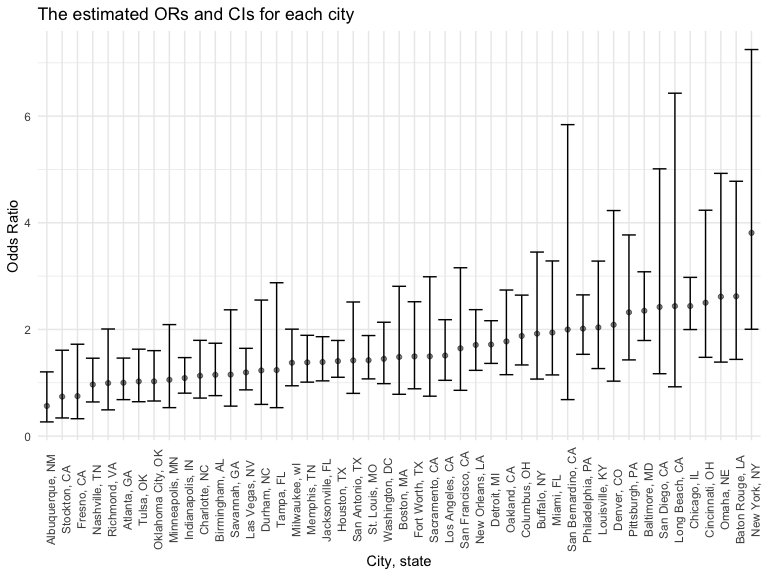
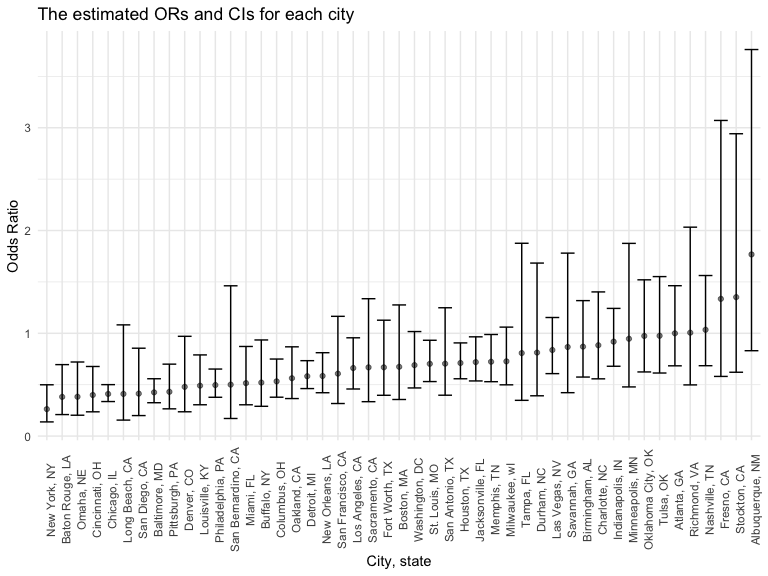
revised homicide_status variable

diff --git a/P8105_hw6_qx2222.md b/P8105_hw6_qx2222.md
@@ -121,13 +121,15 @@ homicide = read_csv("data/homicide-data.csv") #import 'homicide' data
 ``` r
 homicide = homicide %>%
   mutate(city_state = str_c(city, ", ", state)) %>%
-  mutate(homicide_status = if_else(disposition == "Closed without arrest", "unresolved",
-                                   if_else(disposition == "Open/No arrest", "unresolved",
-                                           if_else(disposition == "Closed by arrest", "resolved", NA_character_)))) %>%
+  mutate(homicide_status = case_when(
+         disposition == "Closed without arrest" ~ 0,
+         disposition == "Open/No arrest" ~ 0,
+         disposition == "Closed by arrest" ~ 1))%>%
   filter(!(city_state %in% c("Dallas, TX", "Phoenix, AZ", "Kansas City, MO", "Tulsa, AL"))) %>% #omit observations
   filter(victim_race %in% c("Black", "White")) %>% #limit your analysis those for whom victim_race is white or black
-  mutate(victim_age = as.numeric(victim_age)) %>% # Be sure that victim_age is numeric
-  drop_na(victim_age)
+  mutate(victim_age = as.numeric(victim_age)) %>%  # Be sure that victim_age is numeric
+  drop_na(victim_age, victim_sex,victim_race, homicide_status)
+
 
 
 homicide
@@ -147,7 +149,7 @@ homicide
     ##  9 Alb-…  2.01e7 BOYKIN  CEDRIC  Black        25 Male    Albu… NM     35.1 -107.
     ## 10 Alb-…  2.01e7 BARRAG… MIGUEL  White        20 Male    Albu… NM     35.1 -107.
     ## # … with 39,393 more rows, 3 more variables: disposition <chr>,
-    ## #   city_state <chr>, homicide_status <chr>, and abbreviated variable names
+    ## #   city_state <chr>, homicide_status <dbl>, and abbreviated variable names
     ## #   ¹reported_date, ²victim_last, ³victim_first, ⁴victim_race, ⁵victim_age,
     ## #   ⁶victim_sex
 
@@ -156,30 +158,29 @@ homicide
 ``` r
 fit_log_MD = homicide %>% #use the glm function to fit a logistic regression
   filter(city_state == "Baltimore, MD") %>%
-  mutate(homicide_status = fct_relevel(homicide_status, "resloved")) %>%
-  glm(homicide_status ~ victim_age + victim_sex + victim_race, data = ., family = binomial())%>%
+  glm(homicide_status ~ victim_age + victim_sex + victim_race, 
+      data = ., family = binomial())%>%
   broom::tidy() %>%
   mutate(OR = exp(estimate),
          CI_lower = exp(estimate - 1.96*std.error),
          CI_higher = exp(estimate + 1.96*std.error)) %>%
   select(term, estimate, OR, CI_lower, CI_higher) %>%
+  filter(term == "victim_sexMale") %>%
   knitr::kable(digits = 3, col.names = c("Term", "Estimate", "Odds ratio", "95CI_low","95CI_high"))
+
+
 
 fit_log_MD
 ```
 
-| Term             | Estimate | Odds ratio | 95CI_low | 95CI_high |
-|:-----------------|---------:|-----------:|---------:|----------:|
-| (Intercept)      |   -0.310 |      0.733 |    0.524 |     1.026 |
-| victim_age       |    0.007 |      1.007 |    1.000 |     1.013 |
-| victim_sexMale   |    0.854 |      2.350 |    1.793 |     3.081 |
-| victim_raceWhite |   -0.842 |      0.431 |    0.306 |     0.607 |
+| Term           | Estimate | Odds ratio | 95CI_low | 95CI_high |
+|:---------------|---------:|-----------:|---------:|----------:|
+| victim_sexMale |   -0.854 |      0.426 |    0.325 |     0.558 |
 
 ### Run glm for each of the cities
 
 ``` r
 homicide_cities = homicide %>% #use the glm function to fit a logistic regression
-  mutate(homicide_status = fct_relevel(homicide_status, "resloved")) %>%
   nest(data = -city_state) %>%
   mutate(
     models = map(.x = data, ~ glm(homicide_status ~ victim_age + victim_sex + victim_race, data = .x, family = binomial())),
@@ -198,53 +199,53 @@ homicide_cities %>%
 
 | City, state        | Term           | Estimate | Odds ratio | 95CI_low | 95CI_high |
 |:-------------------|:---------------|---------:|-----------:|---------:|----------:|
-| Albuquerque, NM    | victim_sexMale |   -0.570 |      0.566 |    0.266 |     1.204 |
-| Atlanta, GA        | victim_sexMale |    0.000 |      1.000 |    0.683 |     1.463 |
-| Baltimore, MD      | victim_sexMale |    0.854 |      2.350 |    1.793 |     3.081 |
-| Baton Rouge, LA    | victim_sexMale |    0.964 |      2.622 |    1.438 |     4.779 |
-| Birmingham, AL     | victim_sexMale |    0.139 |      1.149 |    0.759 |     1.741 |
-| Boston, MA         | victim_sexMale |    0.395 |      1.484 |    0.784 |     2.809 |
-| Buffalo, NY        | victim_sexMale |    0.653 |      1.921 |    1.069 |     3.451 |
-| Charlotte, NC      | victim_sexMale |    0.123 |      1.131 |    0.713 |     1.795 |
-| Chicago, IL        | victim_sexMale |    0.891 |      2.438 |    1.998 |     2.976 |
-| Cincinnati, OH     | victim_sexMale |    0.917 |      2.501 |    1.477 |     4.236 |
-| Columbus, OH       | victim_sexMale |    0.630 |      1.878 |    1.334 |     2.644 |
-| Denver, CO         | victim_sexMale |    0.736 |      2.087 |    1.030 |     4.230 |
-| Detroit, MI        | victim_sexMale |    0.541 |      1.717 |    1.363 |     2.164 |
-| Durham, NC         | victim_sexMale |    0.208 |      1.231 |    0.594 |     2.551 |
-| Fort Worth, TX     | victim_sexMale |    0.402 |      1.495 |    0.887 |     2.519 |
-| Fresno, CA         | victim_sexMale |   -0.289 |      0.749 |    0.326 |     1.723 |
-| Houston, TX        | victim_sexMale |    0.341 |      1.406 |    1.103 |     1.793 |
-| Indianapolis, IN   | victim_sexMale |    0.085 |      1.088 |    0.805 |     1.472 |
-| Jacksonville, FL   | victim_sexMale |    0.329 |      1.389 |    1.036 |     1.864 |
-| Las Vegas, NV      | victim_sexMale |    0.178 |      1.194 |    0.867 |     1.646 |
-| Long Beach, CA     | victim_sexMale |    0.891 |      2.438 |    0.924 |     6.430 |
-| Los Angeles, CA    | victim_sexMale |    0.413 |      1.511 |    1.046 |     2.183 |
-| Louisville, KY     | victim_sexMale |    0.712 |      2.039 |    1.266 |     3.282 |
-| Memphis, TN        | victim_sexMale |    0.324 |      1.383 |    1.012 |     1.890 |
-| Miami, FL          | victim_sexMale |    0.663 |      1.941 |    1.147 |     3.284 |
-| Milwaukee, wI      | victim_sexMale |    0.319 |      1.375 |    0.943 |     2.005 |
-| Minneapolis, MN    | victim_sexMale |    0.054 |      1.056 |    0.533 |     2.091 |
-| Nashville, TN      | victim_sexMale |   -0.034 |      0.967 |    0.640 |     1.460 |
-| New Orleans, LA    | victim_sexMale |    0.536 |      1.710 |    1.233 |     2.371 |
-| New York, NY       | victim_sexMale |    1.338 |      3.811 |    2.003 |     7.249 |
-| Oakland, CA        | victim_sexMale |    0.574 |      1.776 |    1.151 |     2.739 |
-| Oklahoma City, OK  | victim_sexMale |    0.026 |      1.027 |    0.658 |     1.602 |
-| Omaha, NE          | victim_sexMale |    0.961 |      2.614 |    1.387 |     4.927 |
-| Philadelphia, PA   | victim_sexMale |    0.701 |      2.015 |    1.533 |     2.648 |
-| Pittsburgh, PA     | victim_sexMale |    0.842 |      2.322 |    1.429 |     3.772 |
-| Richmond, VA       | victim_sexMale |   -0.006 |      0.994 |    0.492 |     2.008 |
-| San Antonio, TX    | victim_sexMale |    0.350 |      1.419 |    0.801 |     2.515 |
-| Sacramento, CA     | victim_sexMale |    0.402 |      1.495 |    0.748 |     2.988 |
-| Savannah, GA       | victim_sexMale |    0.143 |      1.153 |    0.562 |     2.368 |
-| San Bernardino, CA | victim_sexMale |    0.692 |      1.999 |    0.684 |     5.841 |
-| San Diego, CA      | victim_sexMale |    0.884 |      2.421 |    1.170 |     5.012 |
-| San Francisco, CA  | victim_sexMale |    0.498 |      1.646 |    0.858 |     3.157 |
-| St. Louis, MO      | victim_sexMale |    0.352 |      1.422 |    1.073 |     1.885 |
-| Stockton, CA       | victim_sexMale |   -0.301 |      0.740 |    0.340 |     1.610 |
-| Tampa, FL          | victim_sexMale |    0.214 |      1.238 |    0.533 |     2.876 |
-| Tulsa, OK          | victim_sexMale |    0.025 |      1.025 |    0.644 |     1.630 |
-| Washington, DC     | victim_sexMale |    0.371 |      1.449 |    0.983 |     2.135 |
+| Albuquerque, NM    | victim_sexMale |    0.570 |      1.767 |    0.831 |     3.761 |
+| Atlanta, GA        | victim_sexMale |    0.000 |      1.000 |    0.684 |     1.463 |
+| Baltimore, MD      | victim_sexMale |   -0.854 |      0.426 |    0.325 |     0.558 |
+| Baton Rouge, LA    | victim_sexMale |   -0.964 |      0.381 |    0.209 |     0.695 |
+| Birmingham, AL     | victim_sexMale |   -0.139 |      0.870 |    0.574 |     1.318 |
+| Boston, MA         | victim_sexMale |   -0.395 |      0.674 |    0.356 |     1.276 |
+| Buffalo, NY        | victim_sexMale |   -0.653 |      0.521 |    0.290 |     0.935 |
+| Charlotte, NC      | victim_sexMale |   -0.123 |      0.884 |    0.557 |     1.403 |
+| Chicago, IL        | victim_sexMale |   -0.891 |      0.410 |    0.336 |     0.501 |
+| Cincinnati, OH     | victim_sexMale |   -0.917 |      0.400 |    0.236 |     0.677 |
+| Columbus, OH       | victim_sexMale |   -0.630 |      0.532 |    0.378 |     0.750 |
+| Denver, CO         | victim_sexMale |   -0.736 |      0.479 |    0.236 |     0.971 |
+| Detroit, MI        | victim_sexMale |   -0.541 |      0.582 |    0.462 |     0.734 |
+| Durham, NC         | victim_sexMale |   -0.208 |      0.812 |    0.392 |     1.683 |
+| Fort Worth, TX     | victim_sexMale |   -0.402 |      0.669 |    0.397 |     1.127 |
+| Fresno, CA         | victim_sexMale |    0.289 |      1.335 |    0.580 |     3.071 |
+| Houston, TX        | victim_sexMale |   -0.341 |      0.711 |    0.558 |     0.907 |
+| Indianapolis, IN   | victim_sexMale |   -0.085 |      0.919 |    0.679 |     1.242 |
+| Jacksonville, FL   | victim_sexMale |   -0.329 |      0.720 |    0.537 |     0.966 |
+| Las Vegas, NV      | victim_sexMale |   -0.178 |      0.837 |    0.608 |     1.154 |
+| Long Beach, CA     | victim_sexMale |   -0.891 |      0.410 |    0.156 |     1.082 |
+| Los Angeles, CA    | victim_sexMale |   -0.413 |      0.662 |    0.458 |     0.956 |
+| Louisville, KY     | victim_sexMale |   -0.712 |      0.491 |    0.305 |     0.790 |
+| Memphis, TN        | victim_sexMale |   -0.324 |      0.723 |    0.529 |     0.988 |
+| Miami, FL          | victim_sexMale |   -0.663 |      0.515 |    0.304 |     0.872 |
+| Milwaukee, wI      | victim_sexMale |   -0.319 |      0.727 |    0.499 |     1.060 |
+| Minneapolis, MN    | victim_sexMale |   -0.054 |      0.947 |    0.478 |     1.875 |
+| Nashville, TN      | victim_sexMale |    0.034 |      1.034 |    0.685 |     1.562 |
+| New Orleans, LA    | victim_sexMale |   -0.536 |      0.585 |    0.422 |     0.811 |
+| New York, NY       | victim_sexMale |   -1.338 |      0.262 |    0.138 |     0.499 |
+| Oakland, CA        | victim_sexMale |   -0.574 |      0.563 |    0.365 |     0.868 |
+| Oklahoma City, OK  | victim_sexMale |   -0.026 |      0.974 |    0.624 |     1.520 |
+| Omaha, NE          | victim_sexMale |   -0.961 |      0.382 |    0.203 |     0.721 |
+| Philadelphia, PA   | victim_sexMale |   -0.701 |      0.496 |    0.378 |     0.652 |
+| Pittsburgh, PA     | victim_sexMale |   -0.842 |      0.431 |    0.265 |     0.700 |
+| Richmond, VA       | victim_sexMale |    0.006 |      1.006 |    0.498 |     2.033 |
+| San Antonio, TX    | victim_sexMale |   -0.350 |      0.705 |    0.398 |     1.249 |
+| Sacramento, CA     | victim_sexMale |   -0.402 |      0.669 |    0.335 |     1.337 |
+| Savannah, GA       | victim_sexMale |   -0.143 |      0.867 |    0.422 |     1.780 |
+| San Bernardino, CA | victim_sexMale |   -0.692 |      0.500 |    0.171 |     1.462 |
+| San Diego, CA      | victim_sexMale |   -0.884 |      0.413 |    0.200 |     0.855 |
+| San Francisco, CA  | victim_sexMale |   -0.498 |      0.608 |    0.317 |     1.165 |
+| St. Louis, MO      | victim_sexMale |   -0.352 |      0.703 |    0.530 |     0.932 |
+| Stockton, CA       | victim_sexMale |    0.301 |      1.352 |    0.621 |     2.942 |
+| Tampa, FL          | victim_sexMale |   -0.214 |      0.808 |    0.348 |     1.876 |
+| Tulsa, OK          | victim_sexMale |   -0.025 |      0.976 |    0.614 |     1.552 |
+| Washington, DC     | victim_sexMale |   -0.371 |      0.690 |    0.468 |     1.017 |
 
 ### Create a plot that shows the estimated ORs and CIs for each city
 
@@ -262,6 +263,8 @@ prob2_plot
 ```
 
 <img src="P8105_hw6_qx2222_files/figure-gfm/unnamed-chunk-8-1.png" width="90%" />
+
+From this plot,
 
 ``` r
 ggsave(
